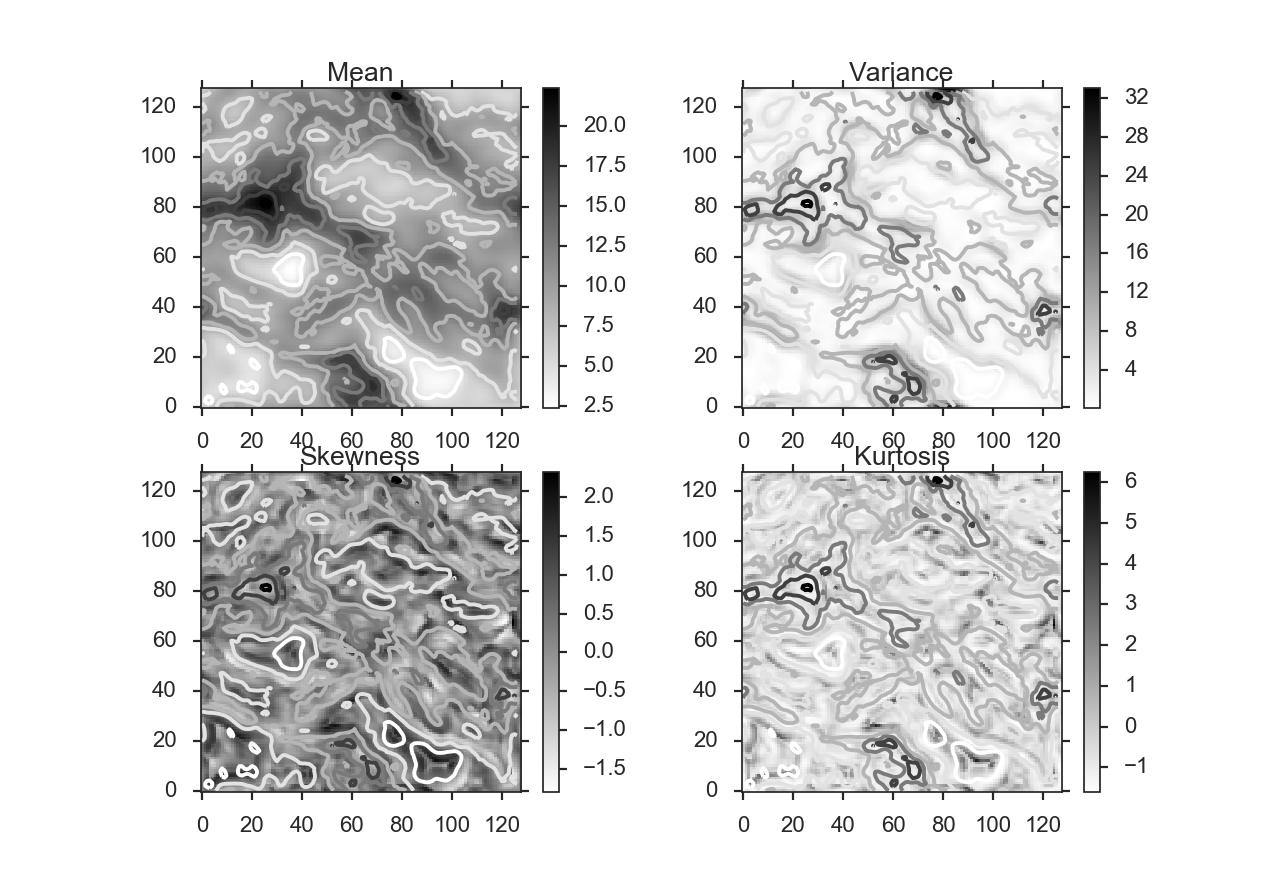
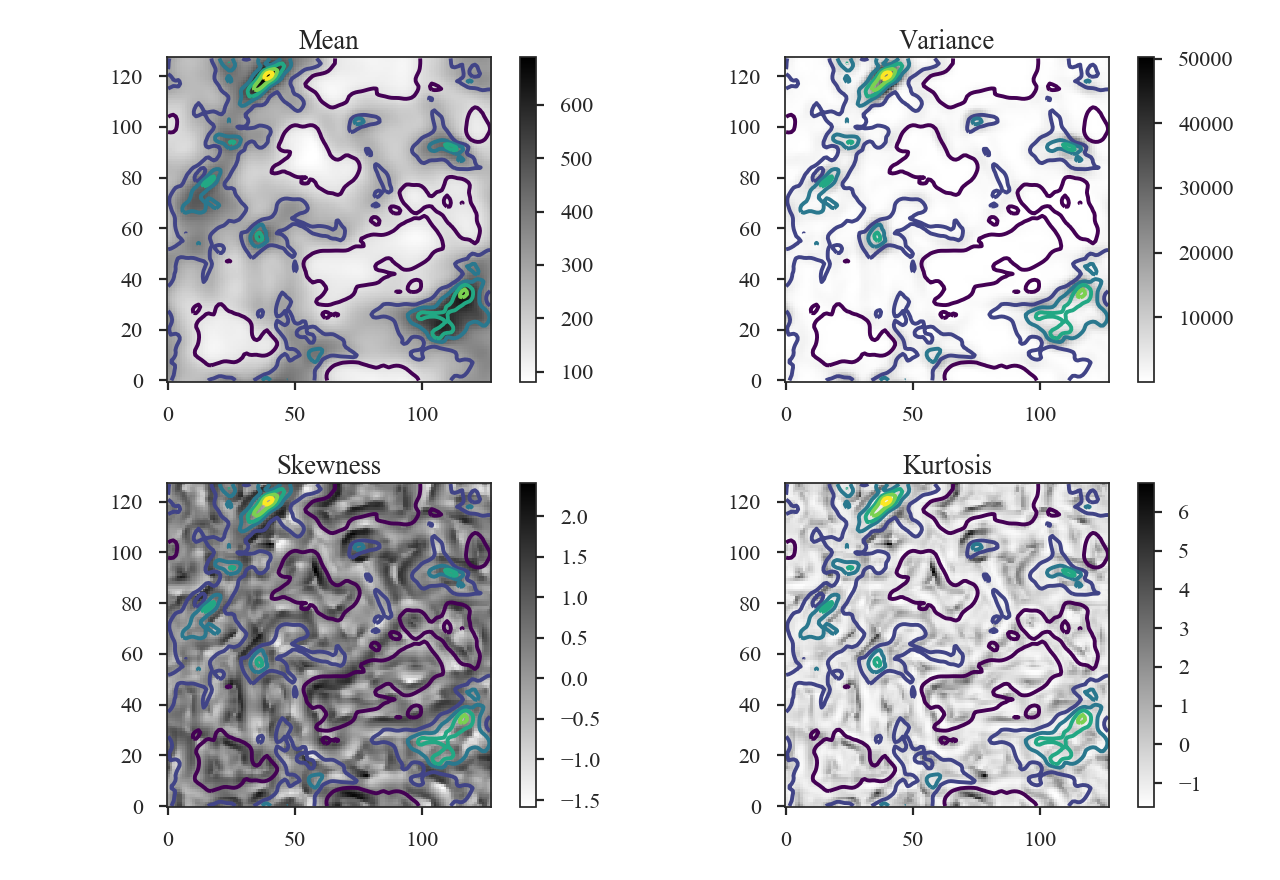
Finished StatMoments tutorial

diff --git a/docs/tutorials/statistics/statmoments_example.rst b/docs/tutorials/statistics/statmoments_example.rst
@@ -6,9 +6,9 @@ Statistical Moments
 Overview
 --------
 
-A commonly used analysis technique with spectral-line data cubes is to find the moment of each spectrum (:ref:`Falgarone et al. 1994 <ref-falgarone1994>`). Alternatively, similar moment can be computed over spatial areas about each pixel. This was introduced by :ref:`Burkhart et al. 2010 <ref-burkhart2010>`, and provides an estimate of the variation in the intensity. Using different neighborhood sizes to compute these statistics will emphasize or hide variations on different spatial scales.
+A commonly used analysis technique with spectral-line data cubes is to find the moment of each spectrum (:ref:`Falgarone et al. 1994 <ref-falgarone1994>`). Alternatively, moments can be computed using the distribution of values in an image or a region within an image. This idea was introduced by :ref:`Kowal et al. 2007 <ref-kowal2007>` and extended in :ref:`Burkhart et al. 2010 <ref-burkhart2010>`, who computed the mean, variance, skewness, and kurtosis within circular regions across an image. This provides an estimate of how the intensity structure varies across an image. Using different neighborhood sizes to compute these statistics will emphasize or hide variations on the different spatial scales.
 
-For the purpose of comparison between these spatial moment maps, :ref:`Burkhart et al. 2010 <ref-burkhart2010>` recommend using the third and fourth moments - the skewness and kurtosis, respectively - since they are independent of the mean and normalized by the standard deviation.
+For the purpose of comparing these spatial moment maps between data sets, :ref:`Burkhart et al. 2010 <ref-burkhart2010>` recommend using the third and fourth moments - the skewness and kurtosis, respectively - since they are independent of the mean and normalized by the standard deviation.
 
 
 Using
@@ -19,34 +19,91 @@ Using
 Import a few packages that are needed and read-in the zeroth moment:
 
     >>> from astropy.io import fits
+    >>> import astropy.units as u
     >>> from turbustat.statistics import StatMoments
-    >>> moment0 = fits.open("Design4_21_0_0_flatrho_0021_13co.moment0.fits")[0] # doctest: +SKIP
+    >>> moment0 = fits.open("Design4_flatrho_0021_00_radmc_moment0.fits")[0] # doctest: +SKIP
 
-The moment0 HDU and radius of the neighborhood (in pixels) are given to initialize `~turbustat.statistics.StatMoments`:
+The moment0 HDU and radius of the neighborhood are given to initialize `~turbustat.statistics.StatMoments`:
 
-    >>> moments = StatMoments(moment0, radius=5, periodic=True)  # doctest: +SKIP
+    >>> moments = StatMoments(moment0, radius=5 * u.pix)  # doctest: +SKIP
 
-In this case, the simulation has periodic boundaries. The spatial moment arrays can then be computed:
+This simulated data has periodic boundaries, so we enable `periodic=True` when computing the spatial moment maps:
 
-    >>> moments.run(verbose=True)  # doctest: +SKIP
+    >>> moments.run(verbose=True, periodic=True)  # doctest: +SKIP
 
 .. image:: images/design4_statmoments.png
 
-The mean array is simply a smoothed version of the zeroth moment. Overlaid on all four plots are the intensity contours from the zeroth moment.
+Overlaid on all four plots are the intensity contours from the zeroth moment, making it easier to compare the moment structures to the intensity. Some of the moment maps are more useful than others. For example the mean array is simply a smoothed version of the zeroth moment. The variance map scales closely with the peaks in emission. The skewness and kurtosis maps show perhaps the more interesting products. Both emphasize regions with sharper gradients in the intensity map, and since both are scaled by the variance, they are independent of the intensity scaling.
 
-Recomputing the moments with a larger radius shows variations on a larger scale:
+The moment maps are shown above, but the distributions of the moments are of greater interest for comparing with other data sets. `~turbustat.statistics.StatMoments.plot_histograms` plots, and optionally saves, the histograms:
 
-    >>> moments = StatMoments(moment0, radius=5, periodic=True).run(verbose=True)  # doctest: +SKIP
+    >>> moments.plot_histograms()  # doctest: +SKIP
 
-.. image:: images/design4_statmoments_radius10.png
+.. image:: images/design4_statmoments_hists.png
+
+Again, the mean is just a smoothed version of the zeroth moment values. The variance has a strong tail, emphasized by the square term at high intensity peak in the map. The skewness and kurtosis provide distributions of normalized parameters, making it easier to use these quantities for comparing to other data sets.
+
+**Note:** This example uses data that is noiseless. If these data *did* have noise, it would be critical to not consider the noise-dominated regions when computing the skewness and kurtosis, in particular, since they are normalized by the variance. To minimize the effect of noise, the data can be masked beforehand or an array of weights can be passed to down-weight noisy regions. We recommend using the latter method. For example, a weight array could be the inverse squared noise level of the data. Assume the noise level is set to make the signal-to-noise ratio 10 for every pixel in the map:
+
+    >>> np.random.seed(3434789)
+    >>> noise = moment0.data * 0.1 + np.random.normal(0, 0.1, size=moment0.data.shape)  # doctest: +SKIP
+    >>> moments_weighted = StatMoments(moment0, radius=5 * u.pix, weights=noise**-2)  # doctest: +SKIP
+    >>> moments_weighted.run(verbose=True, periodic=True)  # doctest: +SKIP
+
+.. image:: images/design4_statmoments_randweights.png
+
+    >>> moments_weighted.plot_histograms()  # doctest: +SKIP
+
+.. image:: images/design4_statmoments_hists_randweights.png
+
+An important consideration when choosing the radius is the balance between tracking small-scale variations and the increased uncertainty when estimating the moments with fewer data. :ref:`Burkhart et al. 2010 <ref-burkhart2010>` use approximate formulae for the standard errors of skewness and kurtosis for a normal distribution that are valid for large samples. These are :math:`\sqrt{6 / n}` for skewness and :math:`\sqrt{24 / n}` for kurtosis, where :math:`n` is the number of points. This also assumes all of these points are *independent* of each other. This typically is not true of observational data, where the data is correlated on at least the beam scale. Each of these points should be considered when choosing the minimum radius appropriate for the data set. For more information on the standard errors, see the sections on **sample** `skewness <https://en.wikipedia.org/wiki/Skewness#Sample_skewness>`_ and `kurtosis <https://en.wikipedia.org/wiki/Kurtosis#Sample_kurtosis>`_ on their Wikipedia pages.
+
+What happens if the radius is chosen to be too small, making the higher-order moments highly uncertain? A new radius can be given to `~turbustat.statistics.StatMoments.run` to replace the first one given:
+
+    >>> moments.run(verbose=False, radius=2 * u.pix)  # doctest: +SKIP
+    >>> moments.plot_histograms()  # doctest: +SKIP
+
+.. image:: images/design4_statmoments_hists_rad_2pix.png
+
+The skewness distribution is narrower, but the kurtosis is wider. While both are highly uncertain with so few samples, the kurtosis is more so, leading the a broader distribution. What are the distribution shapes using larger radii?
+
+    >>> moments.run(verbose=False, radius=10 * u.pix)  # doctest: +SKIP
+    >>> moments.plot_histograms()  # doctest: +SKIP
+
+.. image:: images/design4_statmoments_hists_rad_10pix.png
+
+The skewness and kurtosis distributions are not significantly different from the first example, which used `radius=5 * u.pix`. This seems to suggest that radii in this range give values that are not primarily dominated by the measurement uncertainty. The variance distribution has changed though: its peak is no longer peak at 0. When averaging over a region larger than the size of most of the structure, the peak of the variance should start to become larger than 0. How about computing moments over a much larger radius?
+
+    >>> moments.run(verbose=False, radius=32 * u.pix)  # doctest: +SKIP
+    >>> moments.plot_histograms()  # doctest: +SKIP
+
+.. image:: images/design4_statmoments_hists_rad_32pix.png
+
+This is clearly too large of a region to be using for this data. A radius of 32 pixels means using a circular region half the size of the image, and there are artifacts dominated by single prominent features in the map, leading the weird multi-model moment distributions.
+
+Because this method relies significantly on the pixel size of the map (for small radii), comparing data sets is best done on a common grid. However, if larger radii are being used, the pixel-to-pixel variation will not be as important.
+
+Often it is more convenient to specify scales in angular or physical units, rather than pixels. `radius` can be given as either, so long as a distance is provided. For example, assume the distance to the cloud in this data is 250 pc and we want the radius to be 0.23 pc:
+
+    >>> moments = StatMoments(moment0, radius=0.23 * u.pc)  # doctest: +SKIP
+    >>> moments.run(verbose=False, periodic=True)  # doctest: +SKIP
+    >>> moments.plot_histograms()  # doctest: +SKIP
+
+.. image:: images/design4_statmoments_hists_physunits.png
+
+Whenever a radius with an angular or physical units is given, the radius of the region used is rounded *down* to the nearest integer. In this case, 0.23 pc rounds down to 10 pixels and we find the same distributions shown above for the `radius=10*u.pix` case.
 
 References
 ----------
 
 .. _ref-falgarone1994:
 
-`Falgarone et al. 1994 <XXX>`_
+`Falgarone et al. 1994 <https://ui.adsabs.harvard.edu/#abs/1994ApJ...436..728F/abstract>`_
+
+.. _ref-kowal2007:
+
+`Kowal et al. 2007 <https://ui.adsabs.harvard.edu/#abs/2007ApJ...658..423K/abstract>`_
 
 .. _ref-burkhart2010:
 
-`Burkhart et al. 2010 <XXX>`_
+`Burkhart et al. 2010 <https://ui.adsabs.harvard.edu/#abs/2010ApJ...708.1204B/abstract>`_

diff --git a/docs/tutorials/index.rst b/docs/tutorials/index.rst
@@ -26,6 +26,7 @@ Statistics
     statistics/pdf_example
     statistics/pspec_example
     statistics/scf_example
+    statistics/statmoments_example.rst
 
     statistics/vca_example
     statistics/vcs_example
